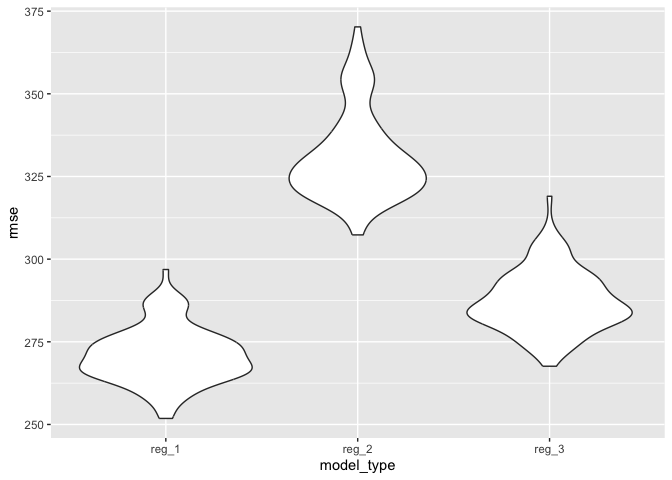
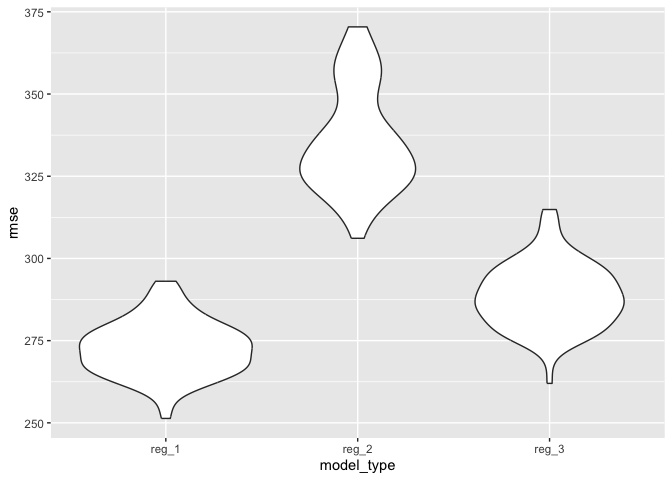
comment on the graphs

diff --git a/p8105_hw6_zj2379.md b/p8105_hw6_zj2379.md
@@ -144,10 +144,6 @@ weather_df =
 
     ## file min/max dates: 1869-01-01 / 2023-09-30
 
-We’ll focus on a simple linear regression with tmax as the response with
-tmin and prcp as the predictors, and are interested in the distribution
-of two quantities estimated from these data:
-
 ``` r
 ## construct a simple linear regression 
 slr_weather_df <- weather_df |>
@@ -207,7 +203,11 @@ log_product|>
   ggtitle("The distribution of log(estimated beta1*estimated beta2) in boot result")
 ```
 
-![](p8105_hw6_zj2379_files/figure-gfm/unnamed-chunk-7-1.png)<!-- -->
+![](p8105_hw6_zj2379_files/figure-gfm/unnamed-chunk-7-1.png)<!-- --> The
+distribution peaks around -4 on the log scale. The most frequent values
+of the log product of beta1 and beta2 are near this value. The left tail
+of the distribution indicates that there are fewer bootstrap samples
+with a very low product of beta1 and beta2.
 
 ``` r
 r_squared_values|>
@@ -218,7 +218,11 @@ r_squared_values|>
   ggtitle("The distribution of r^2 in boot result")
 ```
 
-![](p8105_hw6_zj2379_files/figure-gfm/unnamed-chunk-8-1.png)<!-- -->
+![](p8105_hw6_zj2379_files/figure-gfm/unnamed-chunk-8-1.png)<!-- --> The
+distribution’s peak is around 0.91 and pretty symmetric, suggesting that
+the majority of the bootstrap samples have an r^2 value close to this.
+The model explains approximately 91% of the variance in the data in most
+bootstrap samples.
 
 ``` r
 # get the proportion of valid log(estimated beta1*estimated beta2) among 5000
@@ -229,7 +233,7 @@ fraction = nrow(prop_valid_log)/5000
 fraction
 ```
 
-    ## [1] 0.3264
+    ## [1] 0.3208
 
 ``` r
 # construct a CI for log(estimated beta1*estimated beta2)
@@ -239,7 +243,7 @@ log_product|>
 ```
 
     ##      2.5%     97.5% 
-    ## -6.714513 -2.508731
+    ## -6.879714 -2.486445
 
 ``` r
 # construct a CI for r^2
@@ -249,7 +253,7 @@ r_squared_values|>
 ```
 
     ##      2.5%     97.5% 
-    ## 0.8891981 0.9401722
+    ## 0.8891304 0.9401210
 
 # Problem 3
 
@@ -269,13 +273,6 @@ birthweight=
     ## 
     ## ℹ Use `spec()` to retrieve the full column specification for this data.
     ## ℹ Specify the column types or set `show_col_types = FALSE` to quiet this message.
-
-Propose a regression model for birthweight. This model may be based on a
-hypothesized structure for the factors that underly birthweight, on a
-data-driven model-building process, or a combination of the two.
-Describe your modeling process and show a plot of model residuals
-against fitted values – use add_predictions and add_residuals in making
-this plot.
 
 ``` r
 reg_1=lm(bwt ~ blength + bhead + smoken + wtgain + babysex + delwt + fincome + frace + mheight + momage + mrace + parity + pnumlbw + pnumsga + ppwt +  menarche + gaweeks + smoken, data = birthweight)
@@ -326,6 +323,10 @@ summary(reg_1)
     ## Multiple R-squared:  0.7184, Adjusted R-squared:  0.717 
     ## F-statistic: 524.7 on 21 and 4320 DF,  p-value: < 2.2e-16
 
+Use blength, bhead, smoken, wtgain, babysex, delwt, fincome, frace,
+mheight, momage, mrace, parity, pnumlbw, pnumsga, ppwt, menarche,
+gaweeks, smoken as predictive varibales to propose a regression model.
+
 ``` r
 birthweight <- birthweight |>
   add_predictions(reg_1, var = "fitted_values") |>
@@ -347,7 +348,7 @@ ggplot(birthweight, aes(x = fitted_values, y = residuals)) +
 ```
 
 ![](p8105_hw6_zj2379_files/figure-gfm/unnamed-chunk-14-1.png)<!-- -->
-From the plot, the residuals scatter around 0.
+From the plot, the residuals scatter around 0 evenly.
 
 ``` r
 reg_2=lm(bwt ~ blength+ gaweeks, data = birthweight)
@@ -416,14 +417,14 @@ cv_df |> pull(train) |> nth(1) |> as_tibble()
     ##    <fct>   <dbl>   <dbl> <dbl> <dbl>   <dbl> <fct>   <dbl> <fct>      <dbl>
     ##  1 2          34      51  3629   177      35 1        39.9 0             13
     ##  2 1          34      48  3062   156      65 2        25.9 0             14
-    ##  3 2          36      50  3345   148      85 1        39.9 0             12
+    ##  3 1          34      52  3062   157      55 1        40   0             14
     ##  4 2          34      52  3374   156       5 1        41.6 0             13
     ##  5 1          33      52  3374   129      55 1        40.7 0             12
     ##  6 2          33      46  2523   126      96 2        40.3 0             14
-    ##  7 1          36      52  3515   146      85 1        40.3 0             11
-    ##  8 1          33      50  3459   169      75 2        40.7 0             12
-    ##  9 2          35      51  3317   130      55 1        43.4 0             13
-    ## 10 2          35      48  3175   158      75 1        39.7 0             13
+    ##  7 2          33      49  2778   140       5 1        37.4 0             12
+    ##  8 1          36      52  3515   146      85 1        40.3 0             11
+    ##  9 1          33      50  3459   169      75 2        40.7 0             12
+    ## 10 2          35      51  3317   130      55 1        43.4 0             13
     ## # ℹ 3,463 more rows
     ## # ℹ 12 more variables: mheight <dbl>, momage <dbl>, mrace <fct>, parity <fct>,
     ## #   pnumlbw <dbl>, pnumsga <dbl>, ppbmi <dbl>, ppwt <dbl>, smoken <dbl>,
@@ -436,14 +437,14 @@ cv_df |> pull(test) |> nth(1) |> as_tibble()
     ## # A tibble: 869 × 22
     ##    babysex bhead blength   bwt delwt fincome frace gaweeks malform menarche
     ##    <fct>   <dbl>   <dbl> <dbl> <dbl>   <dbl> <fct>   <dbl> <fct>      <dbl>
-    ##  1 1          34      52  3062   157      55 1        40   0             14
-    ##  2 2          33      49  2778   140       5 1        37.4 0             12
-    ##  3 1          35      51  3459   146      55 1        39.4 0             12
-    ##  4 2          36      52  3629   154      65 1        40.3 0             11
-    ##  5 1          34      52  3203   134      25 1        41.1 0             14
-    ##  6 1          36      54  3402   161      95 1        40.1 0             11
-    ##  7 2          35      53  3600   141      35 1        42.3 0             14
-    ##  8 2          34      51  3232   155      55 1        41.6 0             15
+    ##  1 2          36      50  3345   148      85 1        39.9 0             12
+    ##  2 1          35      51  3544   129      65 1        39.6 0             12
+    ##  3 2          35      53  3345   127      65 2        39.7 0             14
+    ##  4 2          36      56  3685   170      95 1        40.3 0             12
+    ##  5 1          36      52  3629   152      45 1        39.6 0             11
+    ##  6 2          35      52  3289   135      55 1        40.6 0             13
+    ##  7 1          36      54  3402   161      95 1        40.1 0             11
+    ##  8 2          34      54  3345   130      95 1        42.1 0             10
     ##  9 1          35      52  3232   121      75 3        42.3 0             13
     ## 10 2          34      49  3317   142      35 1        40.4 0             12
     ## # ℹ 859 more rows
@@ -497,9 +498,9 @@ cv_results |>
     ## # A tibble: 3 × 2
     ##   model_type m_rmse
     ##   <chr>       <dbl>
-    ## 1 reg_1        271.
-    ## 2 reg_2        331.
-    ## 3 reg_3        287.
+    ## 1 reg_1        273.
+    ## 2 reg_2        336.
+    ## 3 reg_3        289.
 
 ``` r
 cv_results |> 
@@ -518,4 +519,7 @@ cv_results |>
 
 Reg_1 might have the best performance in terms of RMSE because its
 distribution is lower and tighter, indicating lower and more consistent
-errors.
+errors. Additionally, the shape of the violin plot for reg_2 is quite
+wide in the middle, which suggests greater variability in the RMSE
+values. The violin plot of reg_3, while having a lower median RMSE than
+reg_2, still has a higher median RMSE than reg_1.
